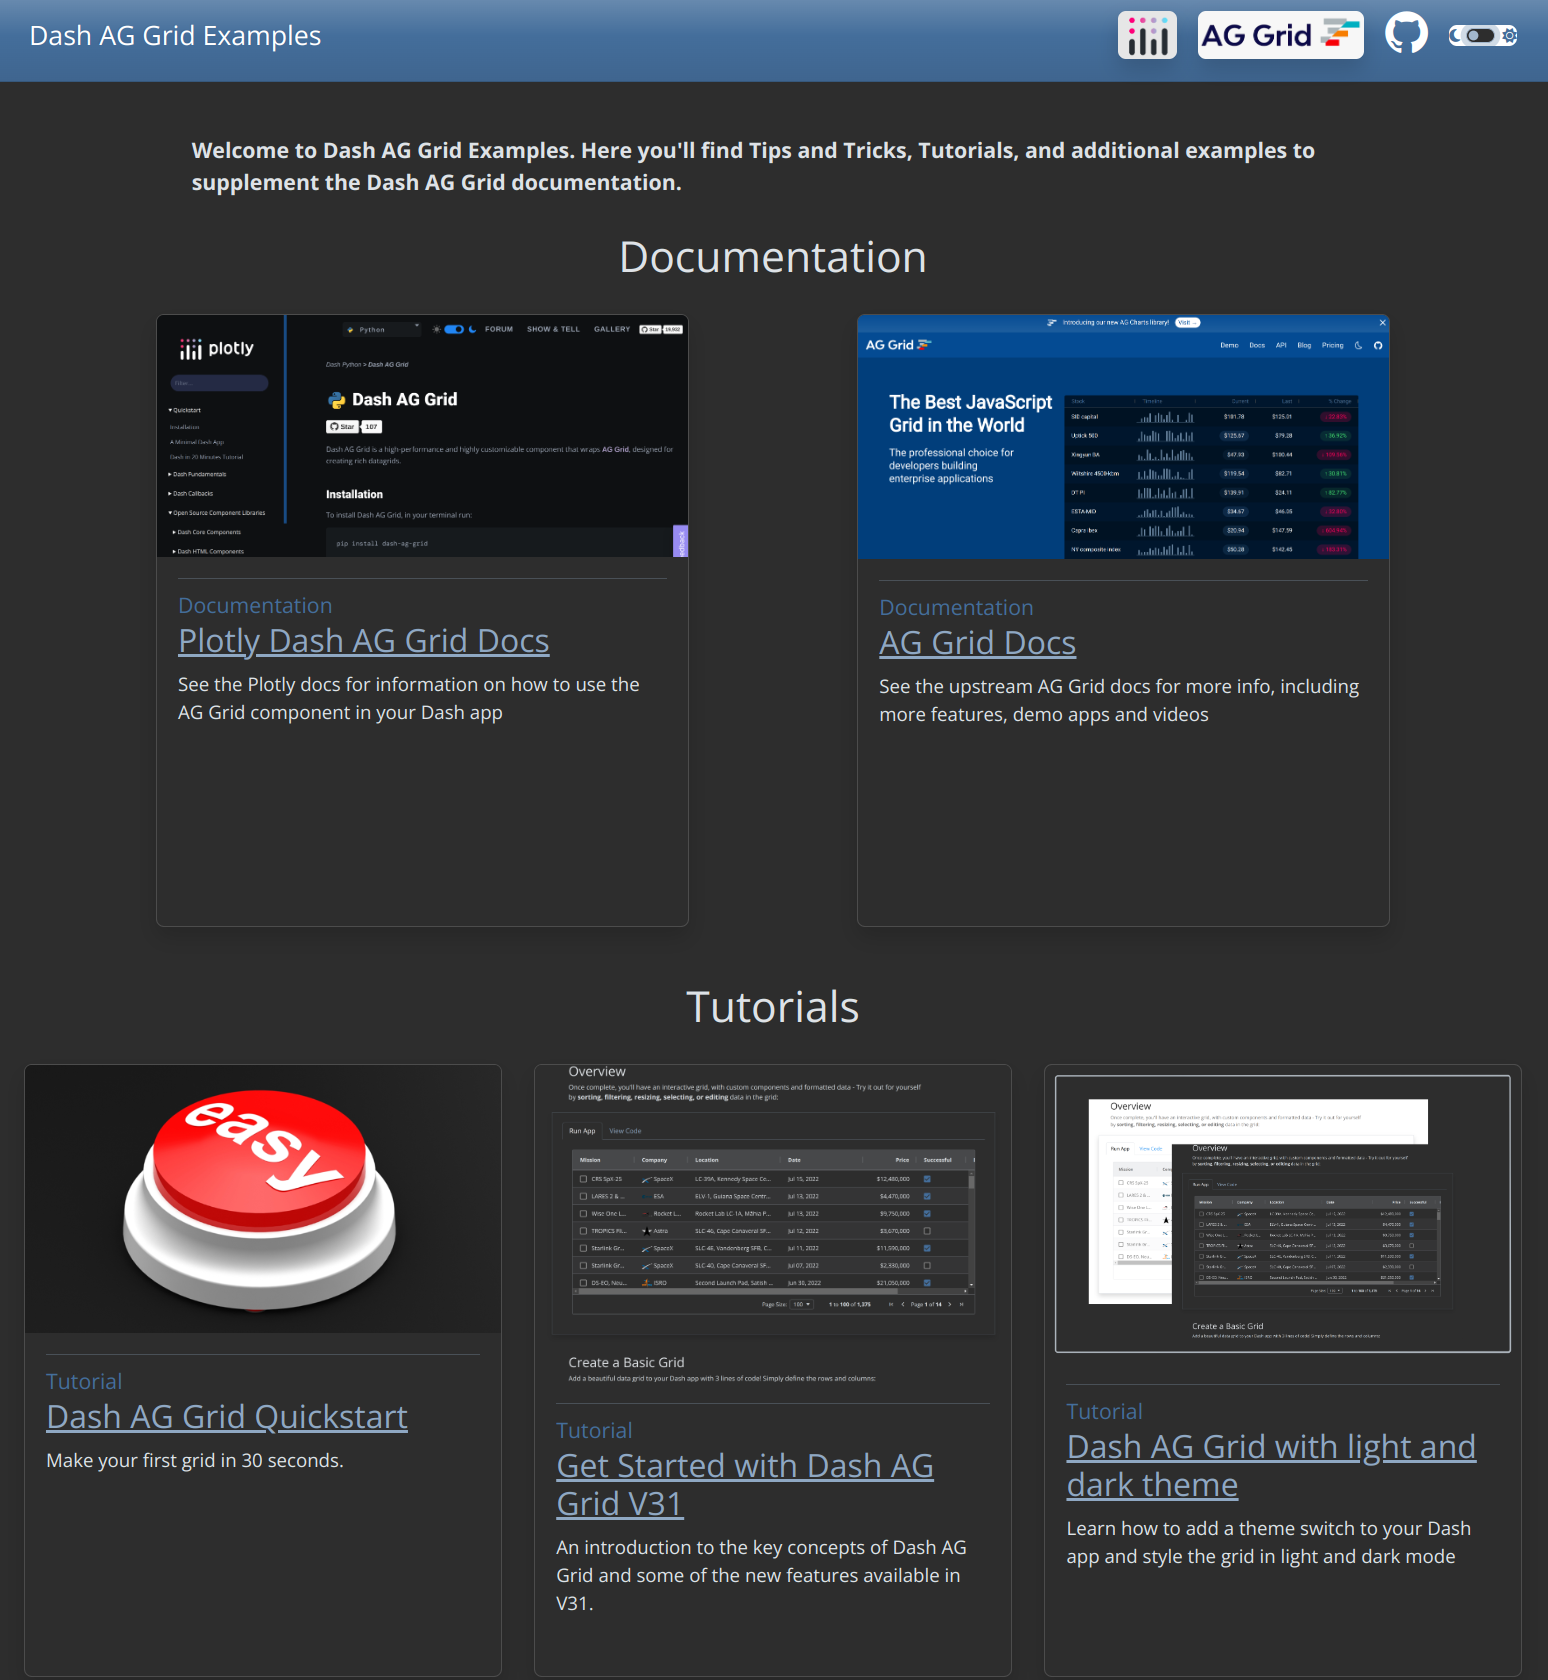
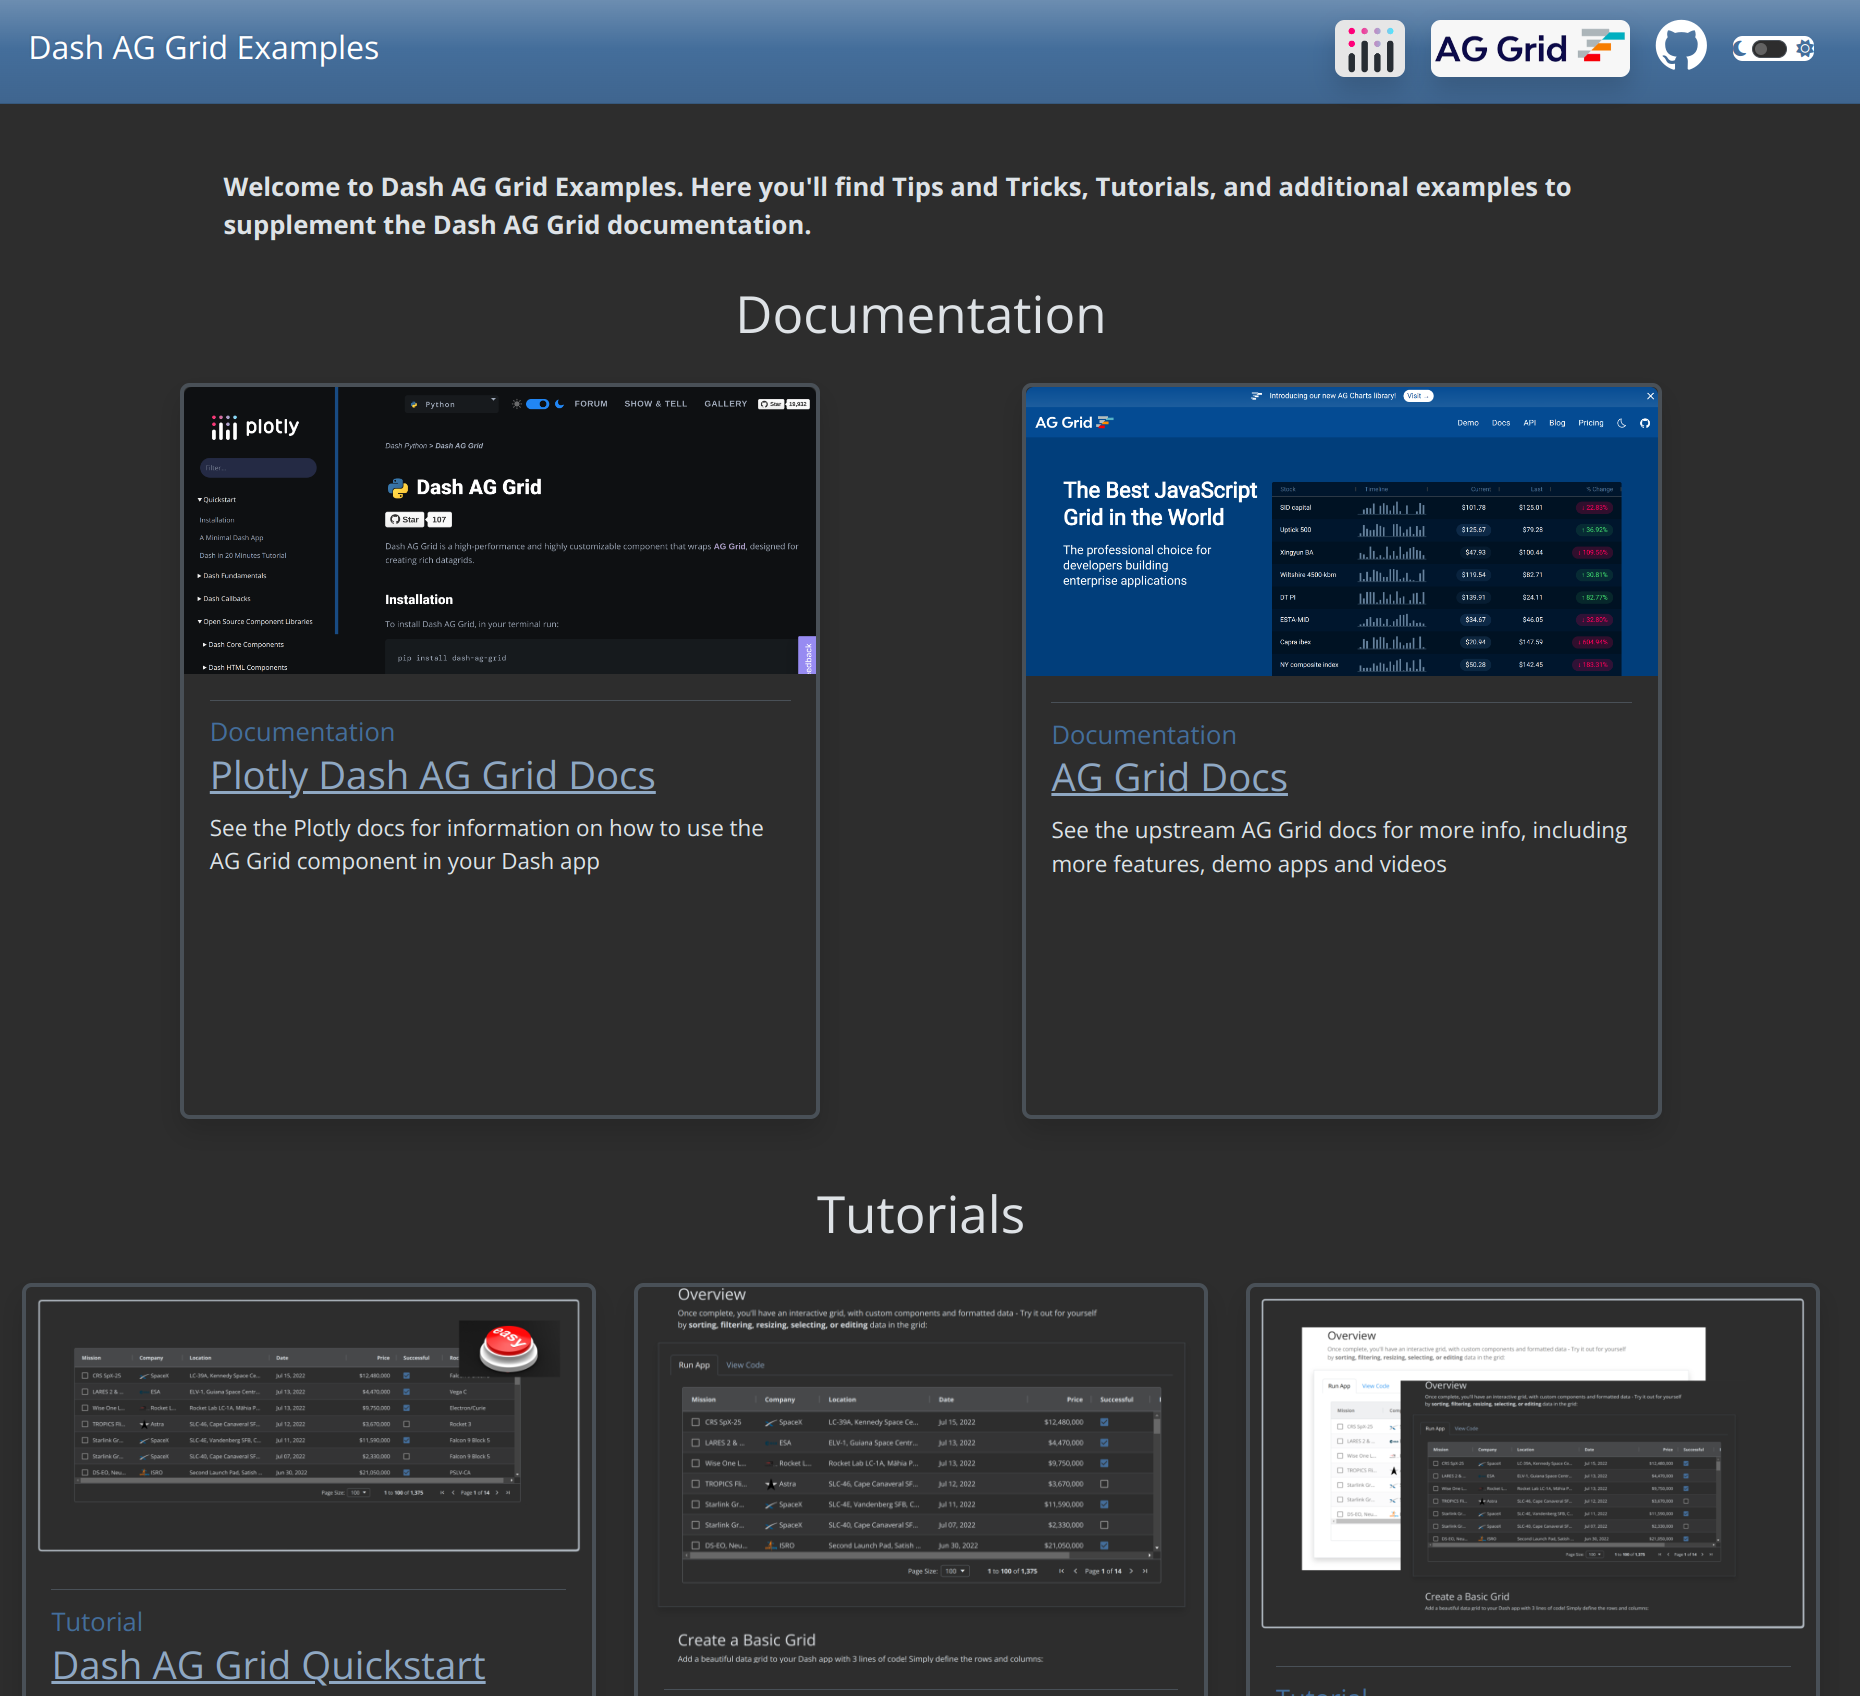
updated images

Changed region(s): [[0.0, 0.0, 1.0, 0.5262], [0.0, 0.5881, 0.9922, 1.0], [0.6822, 0.9905, 0.7442, 1.0]]

diff --git a/utils/links.py b/utils/links.py
@@ -9,7 +9,7 @@ dag_docs = "https://dash.plotly.com/dash-ag-grid"
 dag_docs_img = "https://github.com/AnnMarieW/HelloDash/assets/72614349/978dfcdc-7510-42ac-a562-0b8e85132a0e"
 
 get_started_V31_img = "https://github.com/AnnMarieW/dash-ag-grid-examples/assets/72614349/21c45aff-9a9b-4cf2-9e27-8e598efd4074"
-get_started_easy_img = "https://github.com/AnnMarieW/dash-ag-grid-examples/assets/72614349/fea66e88-92c1-4680-8be2-315293e3eb0d"
+get_started_easy_img = "https://github.com/AnnMarieW/dash-ag-grid-examples/assets/72614349/4f358545-ff20-4f68-9009-0675508c249f"
 
 under_construction_img = "https://github.com/AnnMarieW/dash-ag-grid-examples/assets/72614349/0aaaf2dc-51aa-4ca5-bda8-f7e2e3a53b87"
 examples_img = "https://github.com/AnnMarieW/dash-ag-grid-examples/assets/72614349/9d46bfd7-0fe1-4a55-a63b-e935c7ca8d5e"
